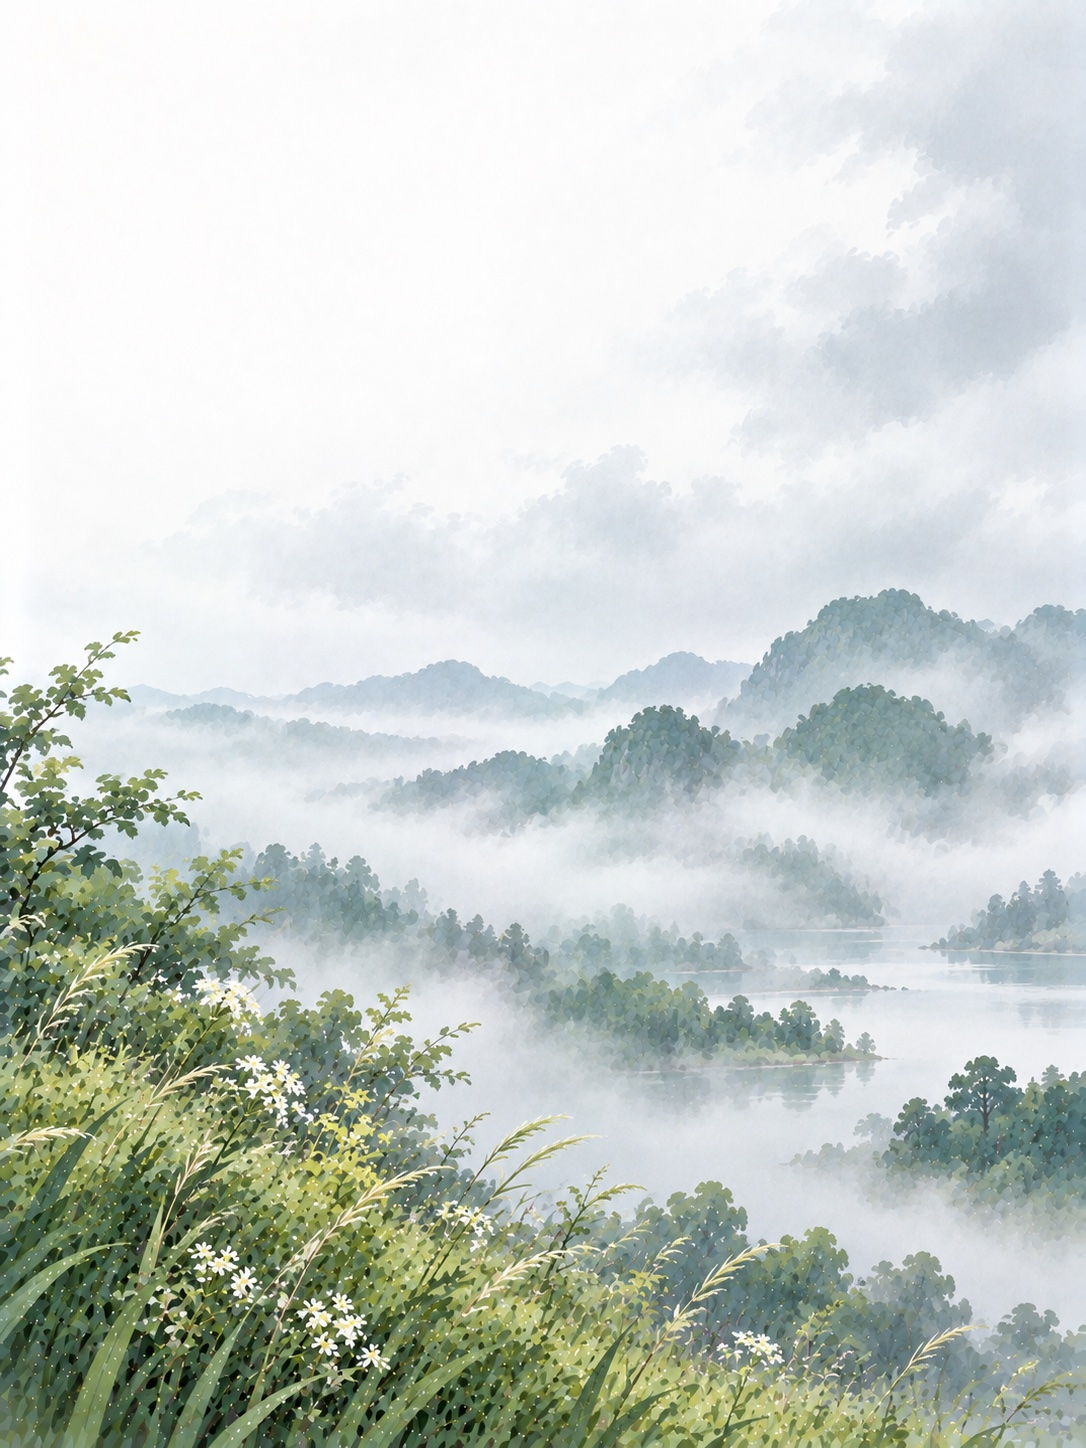
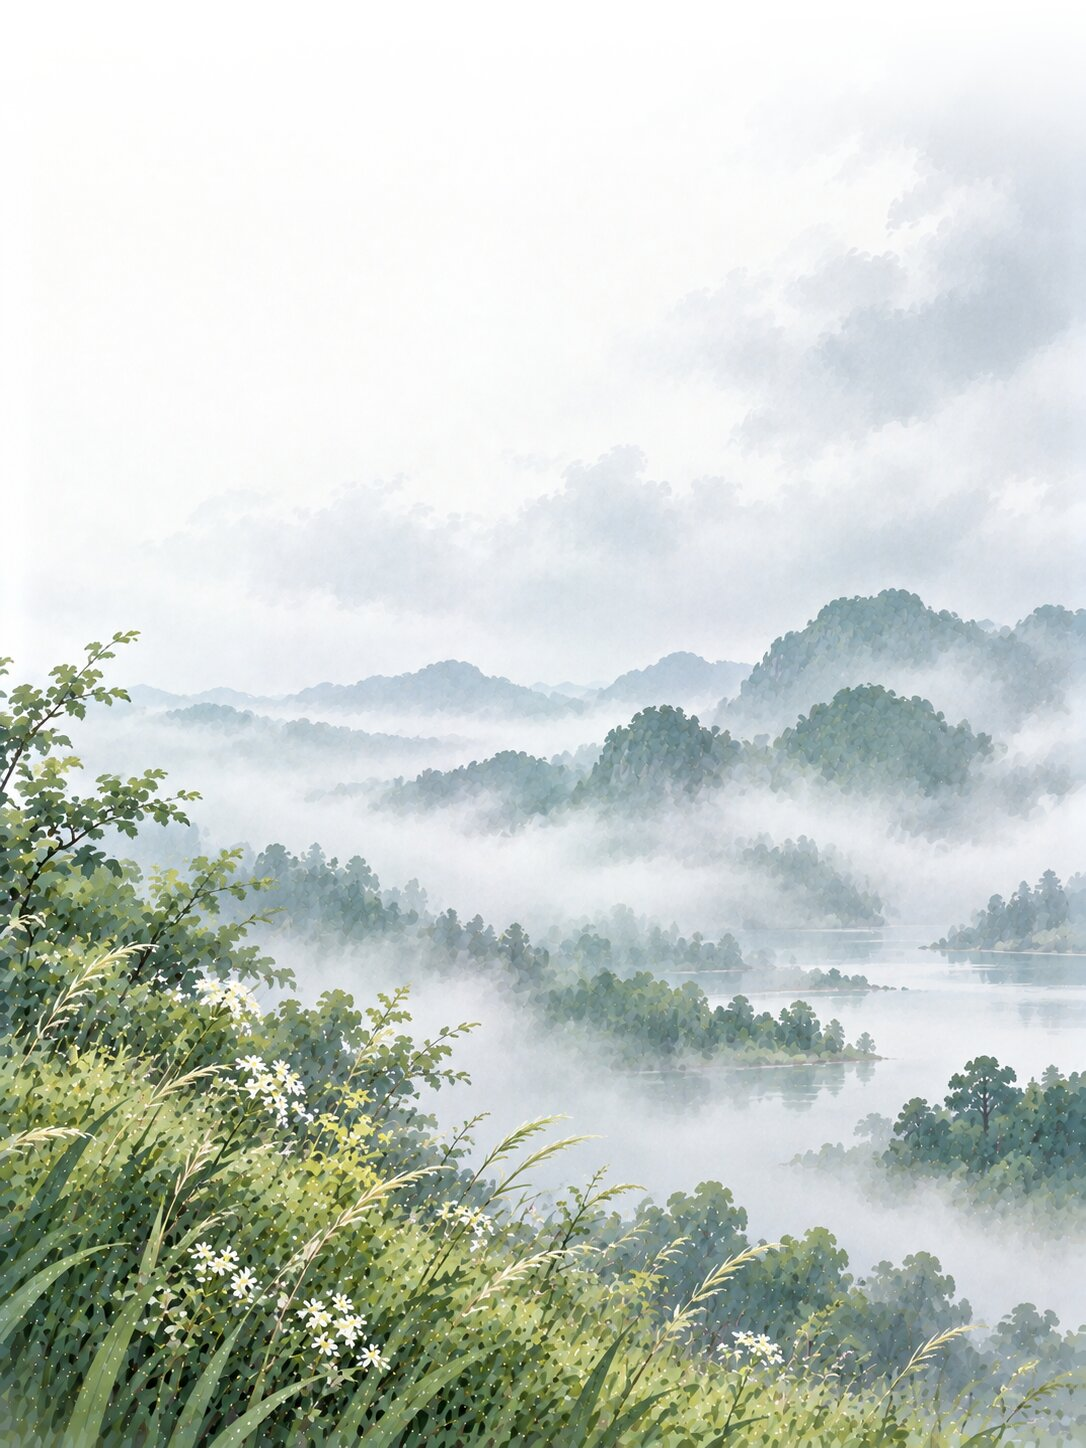
feat(weather): 上缘渐隐改为烤进图片, 不在墨水屏上做半透明合成
运行时盖一层半透明白色会让墨水屏为整片中间调做抖动, 又是局部刷新,
结果是画面发脏并留上一屏的残影。改由 tools/make-weather-scenes.sh 在转码时
把 260px 的渐变白直接画进 JPEG, 屏幕上只是一张不透明图。
渐隐既然在图里, 顶边就改为对齐显示, 多出的高度一律裁下边。

Claude-Session: https://claude.ai/code/session_019KkUnkcqwS2UZFWyZzTLYV

Changed region(s): [[0.8508, 0.0, 1.0, 0.0932]]

diff --git a/space/apps/weather/main.qml b/space/apps/weather/main.qml
@@ -200,13 +200,13 @@ Item {
                     readonly property bool useFallback: String(source).indexOf("/scenes/") < 0
                     readonly property real sw: sourceSize.width > 0 ? sourceSize.width : 1
                     readonly property real sh: sourceSize.height > 0 ? sourceSize.height : 1
-                    // 真素材: 铺满并多出 6% 供上下左右各裁一点, 画的边缘不卡在内容区顶上
-                    readonly property real cover: Math.max(parent.width / sw, parent.height / sh) * 1.06
+                    // 素材的上缘渐隐是烤在图里的 (见 tools/make-weather-scenes.sh),
+                    // 所以顶边要对齐显示, 把这段白留全; 多出来的高度一律裁在下边。
+                    readonly property real cover: Math.max(parent.width / sw, parent.height / sh)
                     width: useFallback ? parent.width : Math.round(sw * cover)
                     height: useFallback ? parent.height : Math.round(sh * cover)
                     x: useFallback ? 0 : Math.round((parent.width - width) / 2)
-                    // 多出来的高度三成裁上边、七成裁下边: 天空留多些垫文字
-                    y: useFallback ? 0 : -Math.round((height - parent.height) * 0.3)
+                    y: 0
                     fillMode: useFallback ? Image.PreserveAspectFit : Image.Stretch
                     // 选图顺序由 sceneChain 给出: 本季本款 → 本季近似 → 邻近季节 → 矢量插画
                     property var chain: W.sceneChain(root.wx, root.space.localNow())
@@ -221,20 +221,6 @@ Item {
                     }
                 }
 
-                // 上缘渐隐: 画和页面融成一片, 不留一条硬边。
-                // 最上面一小截是纯纸白, 往下逐渐透出画面, 温度压在这一段上也更清楚。
-                Rectangle {
-                    anchors.top: parent.top
-                    anchors.left: parent.left; anchors.right: parent.right
-                    height: Math.round(parent.height * 0.32)
-                    gradient: Gradient {
-                        GradientStop { position: 0.00; color: root.paper }
-                        GradientStop { position: 0.10; color: Qt.rgba(1, 1, 1, 0.94) }
-                        GradientStop { position: 0.38; color: Qt.rgba(1, 1, 1, 0.62) }
-                        GradientStop { position: 0.68; color: Qt.rgba(1, 1, 1, 0.24) }
-                        GradientStop { position: 1.00; color: Qt.rgba(1, 1, 1, 0.00) }
-                    }
-                }
             }
 
             // 温度 + 大天气图标: 压在插画的天空部分上
